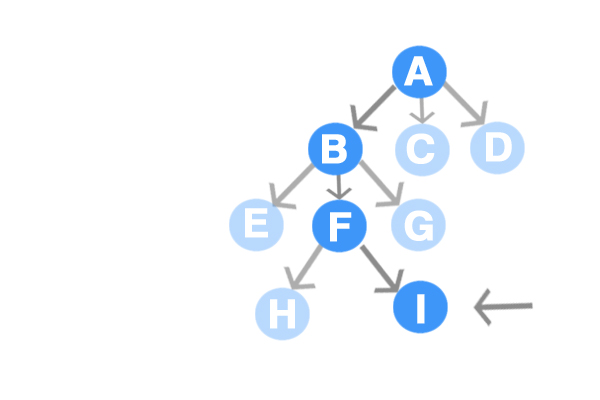
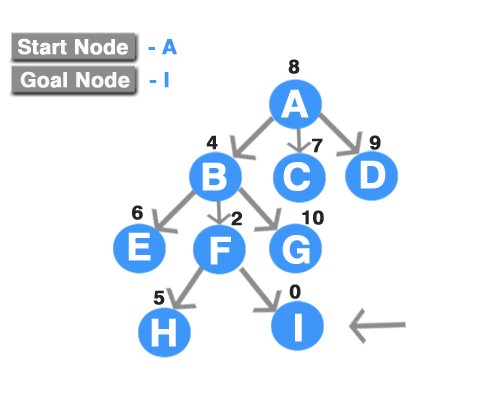
Files Added

Changed region(s): [[0.21, 0.09, 0.9, 0.9], [0.0, 0.06, 0.36, 0.24]]

diff --git a/index.html b/index.html
@@ -51,8 +51,7 @@
 			For example, one might estimate the cost of the cheapest path from Arad to Bucharest via the straight-line distance from Arad to Bucharest.</p>
  <p style="text-align:justify; font-family:Consolas">Heuristic functions are the most common form in which additional knowledge of the problem is imparted to the search algorithm. 
 			We also consider them to be arbitrary, nonnegative, problem specific functions, with one constraint: if <i>n</i> is a goal node, then <i>h(n)=0.</i>
-			Following are two ways to use heuristic information to guide search.</p>
-
+			Following are two ways to use heuristic information to guide search.</p><br>
     
     
   <header>
@@ -60,15 +59,28 @@
     <span style="color: white">Greedy BFS</span>
     <span></span>
   </h1>
-  </header>     
+  </header><br><br>
     
-    <p style="text-align:justify; font-family:Consolas"><b>Greedy best-first search</b> tries to expand the node that is closest to the goal, on the grounds that it is likely to lead
+     <p style="text-align:justify; font-family:Consolas"><b>Greedy best-first search</b> tries to expand the node that is closest to the goal, on the grounds that it is likely to lead
 			to a solution quickly. Thus, it evaluates nodes by using just the heuristic function; that is, <i>f(n)=h(n).</i></p>
-    <p style="text-align:justify; font-family:Consolas">Let us see how this works for the route-finding problems in Romania; we use the <b>straight-line distance heuristic,</b> which
-			we will call <i>h<sub>SLD</sub></i>. If the goal is Bucharest, we need to know the straight-line distances to Bucharest, which are shown in Figure ISS-1:</p>
+    <p style="text-align:justify; font-family:Consolas">Let us see how this works for the route-finding problems. Here we use the <b>straight-line distance heuristic,</b> which
+			we will call <i>h<sub>SLD</sub></i>. If the goal node is I, we need to know the straight-line distances to the node I, which are shown below:</p>
  
+
+  <header>
+  <h1 style="padding-top: 2px">
+    <span style="color: white">Visualization</span>
+    <span></span>
+  </h1>
+  </header><br>
     
-    <img src="nodes.jpg" style="float: left"> <img src="nodes.jpg"> 
+    <img id="img1" src="nodes.jpg"> <img id="img2" src="EA.jpg"> 
+    <img id="img3" src="EB.jpg"> <img id="img4" src="EF.jpg"> <br><br>
+    
+    <p style="text-align:justify; font-family:Consolas">The first node to be expanded from A will be B because it is closer to I than either B or C.
+			The next node to be expanded will be F because it is closest. F, in turn, generates I, which is the goal. For this particular problem,
+			greedy best-first search using <i>h<sub>SLD</sub></i>  finds a solution without ever expanding a node that is not on the solution path; hence, its search
+			cost is minimal. This shows why the algorithm is called "Greedy" - at each step it tries to get as close to the goal as it can.</p>
     
  
     

diff --git a/main.css b/main.css
@@ -4,9 +4,9 @@
 header {
   background-image: linear-gradient(
     -225deg,
-    #ac32e4 0%,
+    #BB05D6 40%,
     #7918f2 48%,
-    #4801ff 100%
+    #0427BE 100%
   );
 
   box-shadow: 0 0.2em 0.2em rgba(0, 0, 0, 0.5);
@@ -74,3 +74,24 @@ h1 {
      margin-top: 10px;
         }
 
+
+#img1 {
+    position: absolute;
+    top: 1800px;
+    left: 100px;
+}
+#img2 {
+    position: absolute;
+    right: 100px;
+    top: 1820px;
+}
+#img3 {
+    position: absolute;
+    left: 100px;
+    top: 2250px;
+}
+#img4 {
+    position: absolute;
+    top: 2250px;
+    right: 100px;
+}
